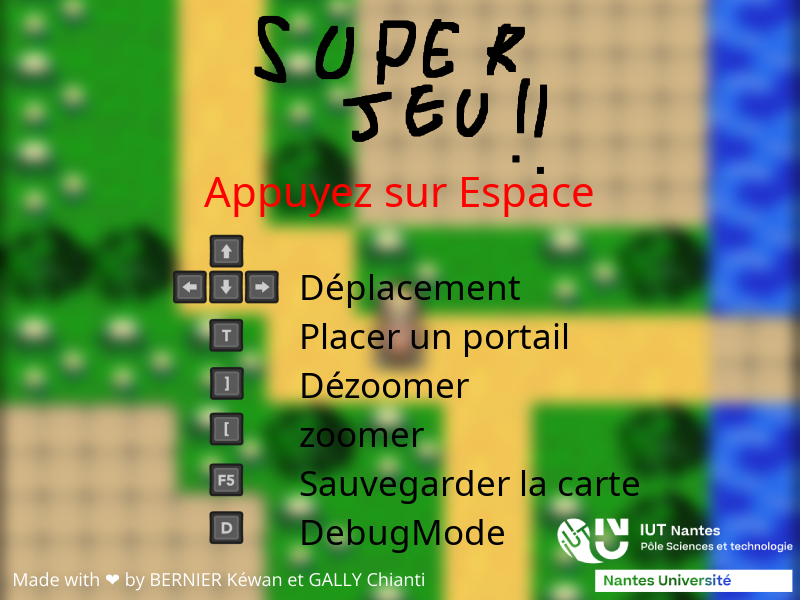
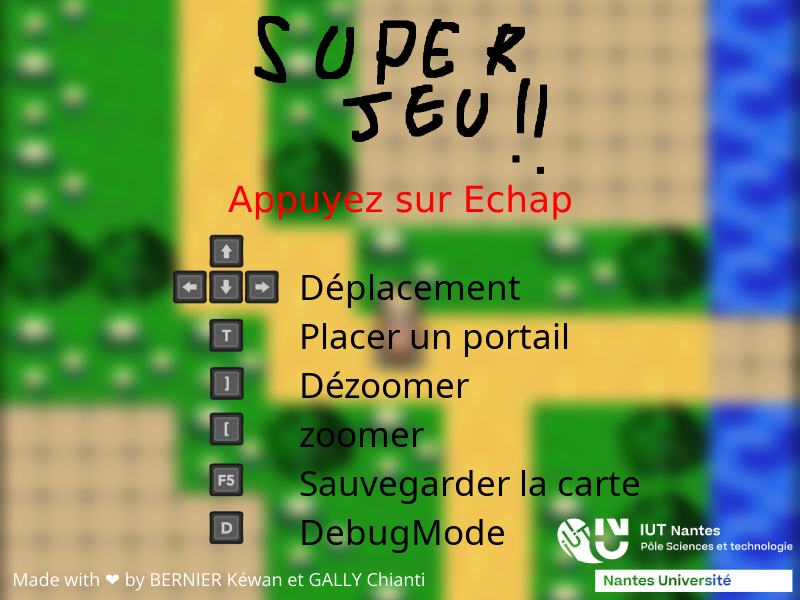
Echap

Changed region(s): [[0.25, 0.3, 0.75, 0.36]]

diff --git a/game/update.go b/game/update.go
@@ -16,11 +16,11 @@ import (
 func (g *Game) Update() error {
 
 	if g.CurrentState == 1 {
-		if inpututil.IsKeyJustPressed(ebiten.KeySpace) {
+		if inpututil.IsKeyJustPressed(ebiten.KeyEscape) {
 			g.CurrentState = 0
 		}
 	} else {
-		if inpututil.IsKeyJustPressed(ebiten.KeySpace) {
+		if inpututil.IsKeyJustPressed(ebiten.KeyEscape) {
 			g.CurrentState = 1
 		}
 	}
